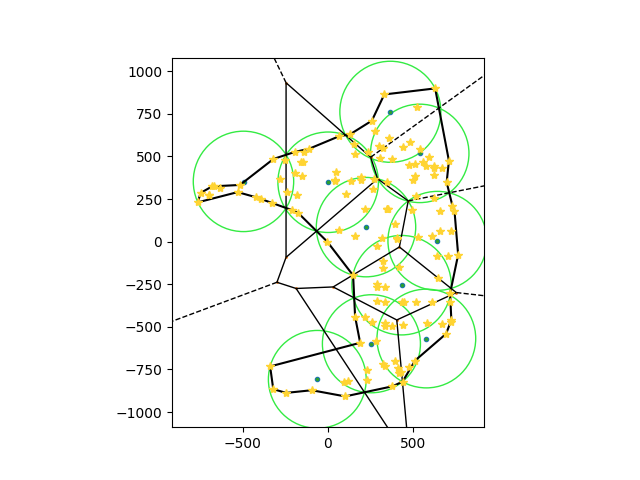
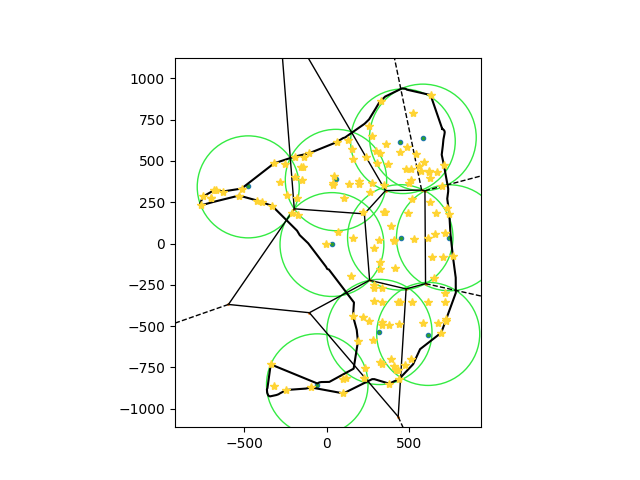
continued

diff --git a/scripts/algorithms/partition_based_patrolling/graph_partition2.py b/scripts/algorithms/partition_based_patrolling/graph_partition2.py
@@ -283,8 +283,8 @@ def base_station_initial_points(boundary_poly,n):
             random_y = np.random.uniform( miny, maxy, 1 )[0]
             is_inside = boundary_poly.contains(Shapely_point([random_x,random_y]))
         base_station_points.append([random_x,random_y])
-    return select_random_points_on_edges(graph_name,n)
-    # return base_station_points
+    # return select_random_points_on_edges(graph_name,n)
+    return base_station_points
 
 def get_boundary_hull(points):
     global hull, hull_points, hull_poly

diff --git a/scripts/algorithms/partition_based_patrolling/plot/communication_graph.py b/scripts/algorithms/partition_based_patrolling/plot/communication_graph.py
@@ -21,7 +21,7 @@ import os
 import urllib.parse
 
 graph_name = 'iit_bombay'
-range = 450
+range = 330
 dirname = rospkg.RosPack().get_path('mrpp_sumo')
 # no_of_base_stations = np.load(dirname + '/scripts/algorithms/partition_based_patrolling/graphs_partition_results/'+ graph_name + '/required_no_of_base_stations.npy')[0]
 graph_results_path = dirname + '/scripts/algorithms/partition_based_patrolling/graphs_partition_results/'

diff --git a/scripts/algorithms/partition_based_patrolling/get_partion_for_iot.py b/scripts/algorithms/partition_based_patrolling/get_partion_for_iot.py
@@ -40,7 +40,7 @@ def get_boundary_hull(points):
 
 if __name__ == '__main__':
     dirname = rospkg.RosPack().get_path('mrpp_sumo')
-    Iot_device_ranges = sorted([450],reverse=True)
+    Iot_device_ranges = sorted([330],reverse=True)
 
     graph_name = 'iit_bombay'
     graph_path = dirname +'/graph_ml/'+ graph_name + '.graphml'
